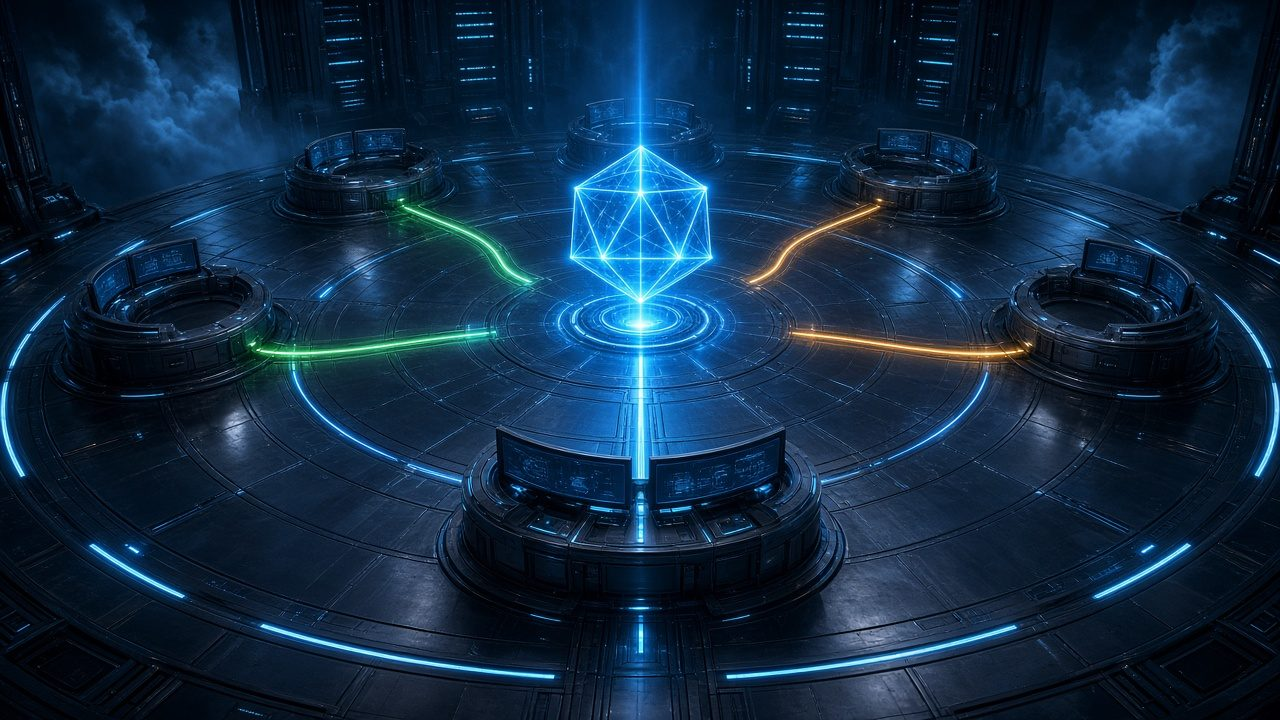
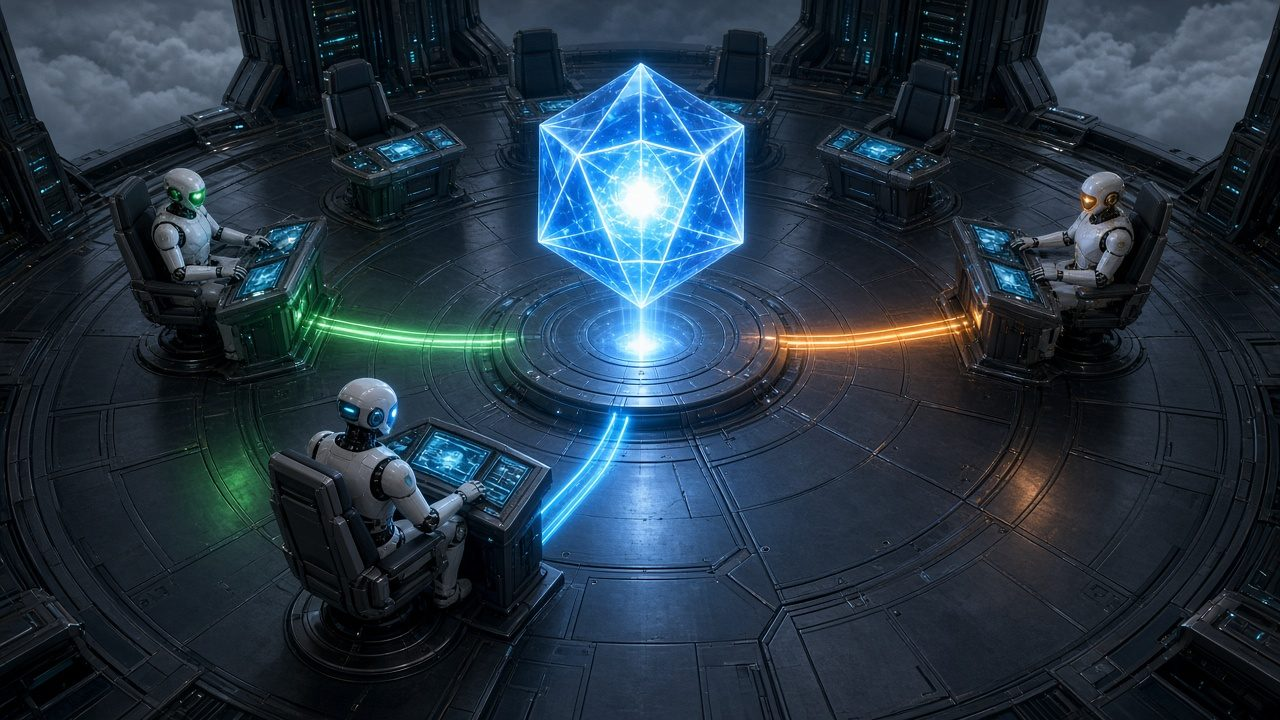
Seat the agents in the command-floor chairs and stop the bob.
The three bots are painted into their stations, the hub is a filled crystal, phones use a tall deck, and the 375 note panel no longer clips its description.

diff --git a/index.html b/index.html
@@ -376,38 +376,34 @@ button.row { width: 100%; background: none; border: 0; border-bottom: 1px solid 
 .station strong { display: block; font-size: 13px; font-weight: 500; overflow-wrap: anywhere; }
 .station span { display: block; color: var(--text-dim); font-size: 12px; }
 .lane-list { padding: 10px 12px; }
-#page-agents .page-stage { background: radial-gradient(ellipse at 50% 22%, #16344c 0%, #0a1624 36%, #050b14 70%, #04070d 100%); }
+#page-agents .page-stage { background: #070d16; }
 #page-agents #agent-floor { display: none; }
 .office-room { position: relative; height: auto; min-height: 0; overflow: visible; background: none; border: 0; }
 .floor-stage { position: relative; width: 100%; aspect-ratio: 16 / 9; margin: 0 auto; }
 .floor-plate { width: 100%; height: 100%; display: block; object-fit: fill; border-radius: 10px; }
+.floor-plate-tall { display: none; }
 .floor-streams { position: absolute; inset: 0; width: 100%; height: 100%; pointer-events: none; mix-blend-mode: screen; }
-.floor-streams .stream { fill: none; stroke-width: 2.2; stroke-linecap: round; stroke-dasharray: 12 36; animation: flow 2.2s linear infinite; vector-effect: non-scaling-stroke; filter: drop-shadow(0 0 3px currentColor); }
-.stream-green { stroke: #8dffe4; }
+.streams-tall { display: none; }
+.floor-streams .stream { fill: none; stroke-width: 2; stroke-linecap: round; stroke-dasharray: 10 42; animation: flow 3.6s linear infinite; vector-effect: non-scaling-stroke; }
+.stream-green { stroke: #7dffe0; }
 .stream-amber { stroke: #ffc56a; }
 .stream-cyan { stroke: #b6f3ff; }
-.hub-glow { position: absolute; left: 50%; top: 31.5%; width: 18%; aspect-ratio: 1; transform: translate(-50%, -50%); pointer-events: none; border-radius: 50%; background: radial-gradient(circle, rgba(150,236,255,0.42), rgba(40,150,255,0.08) 58%, transparent 72%); mix-blend-mode: screen; animation: hubPulse 3.8s ease-in-out infinite; }
-.hub-glow::after { content: ""; position: absolute; inset: 10%; border-radius: 50%; border: 1px dashed rgba(190,246,255,0.75); animation: hubSpin 20s linear infinite; }
-@keyframes hubSpin { to { transform: rotate(360deg); } }
-@keyframes hubPulse { 50% { opacity: 0.55; transform: translate(-50%, -50%) scale(1.07); } }
-@keyframes flow { to { stroke-dashoffset: -69; } }
-@keyframes seated { 50% { transform: translateY(-4px); } }
+.hub-glow { position: absolute; left: 50%; top: 29%; width: 16%; aspect-ratio: 1; transform: translate(-50%, -50%); pointer-events: none; border-radius: 50%; background: radial-gradient(circle, rgba(170,240,255,0.28), rgba(40,140,255,0.05) 58%, transparent 72%); mix-blend-mode: screen; animation: hubPulse 5s ease-in-out infinite; }
+@keyframes hubPulse { 50% { opacity: 0.55; } }
+@keyframes flow { to { stroke-dashoffset: -104; } }
 .seat { position: absolute; z-index: 2; margin: 0; padding: 0; border: 0; background: transparent; cursor: pointer; color: #f4fbff; }
-.seat-research { left: 8.05%; top: 30.28%; width: 10.16%; height: 24.44%; --glow: rgba(80,255,170,0.9); }
-.seat-deployer { left: 81.8%; top: 30.28%; width: 10.78%; height: 24.44%; --glow: rgba(255,186,70,0.9); }
-.seat-conductor { left: 40.55%; top: 45.6%; width: 18.83%; height: 36.2%; --glow: rgba(90,220,255,0.95); }
-.seat-shadow { position: absolute; left: 16%; right: 16%; bottom: 1%; height: 12%; background: radial-gradient(ellipse, rgba(0,0,0,0.62), transparent 70%); pointer-events: none; }
-.seat-fig { display: block; width: 100%; height: 100%; animation: seated 3.4s ease-in-out infinite; }
-.seat-research .seat-fig { animation-delay: -0.8s; }
-.seat-deployer .seat-fig { animation-delay: -1.7s; }
-.seat-fig img { width: 100%; height: 100%; display: block; object-fit: contain; pointer-events: none; }
-.seat-name { position: absolute; left: 50%; top: 0; transform: translate(-50%, -115%); white-space: nowrap; font-family: Inter, system-ui, sans-serif; font-size: clamp(10px, 1.15vw, 13px); line-height: 1.2; letter-spacing: 0.04em; text-transform: uppercase; color: #f4fbff; background: rgba(4,10,18,0.62); border-radius: 999px; padding: 1px 6px; text-shadow: 0 1px 2px #000; pointer-events: none; }
-.seat-conductor .seat-name { left: 0; top: 10%; transform: translate(-108%, 0); }
-.seat.is-open .seat-fig { filter: drop-shadow(0 0 8px var(--glow)); }
+.seat-research { left: 7%; top: 18%; width: 22%; height: 28%; --glow: rgba(80,255,170,0.9); }
+.seat-deployer { left: 72%; top: 18%; width: 22%; height: 28%; --glow: rgba(255,186,70,0.9); }
+.seat-conductor { left: 16%; top: 52%; width: 26%; height: 32%; --glow: rgba(90,220,255,0.95); }
+.seat-name { position: absolute; left: 50%; top: 0; transform: translate(-50%, -120%); white-space: nowrap; font-family: Inter, system-ui, sans-serif; font-size: clamp(10px, 1.15vw, 13px); line-height: 1.2; letter-spacing: 0.04em; text-transform: uppercase; color: #f4fbff; background: rgba(4,10,18,0.72); border-radius: 999px; padding: 1px 6px; text-shadow: 0 1px 2px #000; pointer-events: none; }
+.seat.is-open { box-shadow: inset 0 0 0 1px var(--glow), 0 0 14px var(--glow); }
 #page-agents .page-note { font-family: Inter, system-ui, sans-serif; font-size: 13px; line-height: 1.5; letter-spacing: 0; word-spacing: normal; font-kerning: normal; max-width: 36rem; }
-.bot-panel { position: relative; z-index: 4; margin-top: 10px; max-height: 46dvh; overflow: auto; background: rgba(12,10,8,0.94); border: 1px solid rgba(228,196,140,0.45); border-radius: 12px; padding: 12px; }
+.bot-panel { position: relative; z-index: 4; margin-top: 10px; max-height: 46dvh; overflow: auto; background: rgba(12,10,8,0.94); border: 1px solid rgba(228,196,140,0.45); border-radius: 12px; padding: 12px; min-width: 0; }
 .bot-panel[hidden] { display: none !important; }
-.bot-panel h2 { font-family: var(--disp); font-size: 18px; font-weight: 500; color: #f6ecd6; }
+.bot-panel .module-bar { position: static; background: transparent; }
+.bot-panel h2 { font-family: var(--disp); font-size: 18px; font-weight: 500; color: #f6ecd6; min-width: 0; }
+.bot-panel p, .bot-panel .save-note { overflow-wrap: anywhere; }
+.bot-panel .row { flex-direction: column; align-items: flex-start; gap: 2px; }
 .bot-panel textarea { width: 100%; min-height: 88px; }
 @media (min-width: 1001px) {
   .office-layout { position: relative; }
@@ -425,15 +421,22 @@ button.row { width: 100%; background: none; border: 0; border-bottom: 1px solid 
 @media (max-width: 1000px) {
   .page-columns, .metric-row { display: flex; flex-direction: column; }
   #page-agents .floor-scroll { display: flex; flex-direction: column; }
-  #page-agents .office-layout { flex: 1; display: flex; flex-direction: column; justify-content: center; }
+  #page-agents .office-layout { flex: 1 0 auto; display: flex; flex-direction: column; justify-content: flex-start; min-width: 0; }
   #page-agents .page-note { font-size: 12.5px; margin-bottom: 8px; }
+  .floor-stage { aspect-ratio: 9 / 16; width: min(100%, calc((100dvh - 128px) * 9 / 16)); }
+  .floor-plate-wide, .streams-wide { display: none; }
+  .floor-plate-tall { display: block; }
   .seat-name { font-size: 10px; letter-spacing: 0.02em; padding: 1px 5px; }
-}
-@media (max-width: 1000px) and (max-height: 720px) {
-  .bot-panel { max-height: 240px; }
+  .seat-research { left: 1%; top: 18%; width: 24%; height: 18%; }
+  .seat-deployer { left: 74%; top: 18%; width: 25%; height: 18%; }
+  .seat-conductor { left: 28%; top: 46%; width: 44%; height: 24%; }
+  .hub-glow { top: 31%; width: 24%; }
+  #page-agents .office-layout.has-panel .floor-stage { width: min(100%, 56vw); }
+  .bot-panel { position: relative; right: auto; top: auto; width: 100%; max-height: none; margin-top: 8px; overflow: visible; }
+  .bot-panel textarea { min-height: 72px; }
 }
 @media (prefers-reduced-motion: reduce) {
-  .core-ring, .core-inner, .core-text span, .core.speaking, .live-dot, .seat-fig, .hub-glow, .hub-glow::after, .floor-streams .stream { animation: none !important; }
+  .core-ring, .core-inner, .core-text span, .core.speaking, .live-dot, .hub-glow, .floor-streams .stream { animation: none !important; }
 }
 
 /* PROPERTY DETAIL MODAL */
@@ -1279,16 +1282,20 @@ function renderOffice() {
   function seat(bot, cls) {
     const open = openBotId === bot.id;
     return '<button type="button" class="seat ' + cls + (open ? ' is-open' : '') + '" data-bot="' + esc(bot.id) + '" aria-pressed="' + (open ? 'true' : 'false') + '">' +
-      '<span class="seat-shadow" aria-hidden="true"></span>' +
-      '<span class="seat-fig"><img src="assets/bot-' + bot.key + '.png" alt=""></span>' +
       '<span class="seat-name">' + esc(bot.name) + '</span></button>';
   }
   host.innerHTML = '<div class="floor-stage">' +
-    '<img class="floor-plate" src="assets/command-floor.jpg" alt="">' +
-    '<svg class="floor-streams" viewBox="0 0 100 100" preserveAspectRatio="none" aria-hidden="true">' +
-    '<path class="stream stream-green" d="M19,49.2 C28,49.2 33,45.5 42,38"/>' +
-    '<path class="stream stream-amber" d="M81,49.2 C72,49.2 67,45.5 58,38"/>' +
-    '<path class="stream stream-cyan" d="M50,64 L50,43"/>' +
+    '<img class="floor-plate floor-plate-wide" src="assets/command-floor.jpg" alt="">' +
+    '<img class="floor-plate floor-plate-tall" src="assets/command-floor-phone.jpg" alt="">' +
+    '<svg class="floor-streams streams-wide" viewBox="0 0 100 100" preserveAspectRatio="none" aria-hidden="true">' +
+    '<path class="stream stream-green" d="M30,43.5 C36,44 42,44.5 47,45.5"/>' +
+    '<path class="stream stream-amber" d="M70,44.5 C62,45 56,46 53,47"/>' +
+    '<path class="stream stream-cyan" d="M40,68 C43,62 47,55 50,49"/>' +
+    '</svg>' +
+    '<svg class="floor-streams streams-tall" viewBox="0 0 100 100" preserveAspectRatio="none" aria-hidden="true">' +
+    '<path class="stream stream-green" d="M24,40 C32,40 38,38 44,36"/>' +
+    '<path class="stream stream-amber" d="M76,40 C68,40 62,38 56,36"/>' +
+    '<path class="stream stream-cyan" d="M50,52 L50,42"/>' +
     '</svg>' +
     '<div class="hub-glow" aria-hidden="true"></div>' +
     seat(byKey.research, 'seat-research') +
